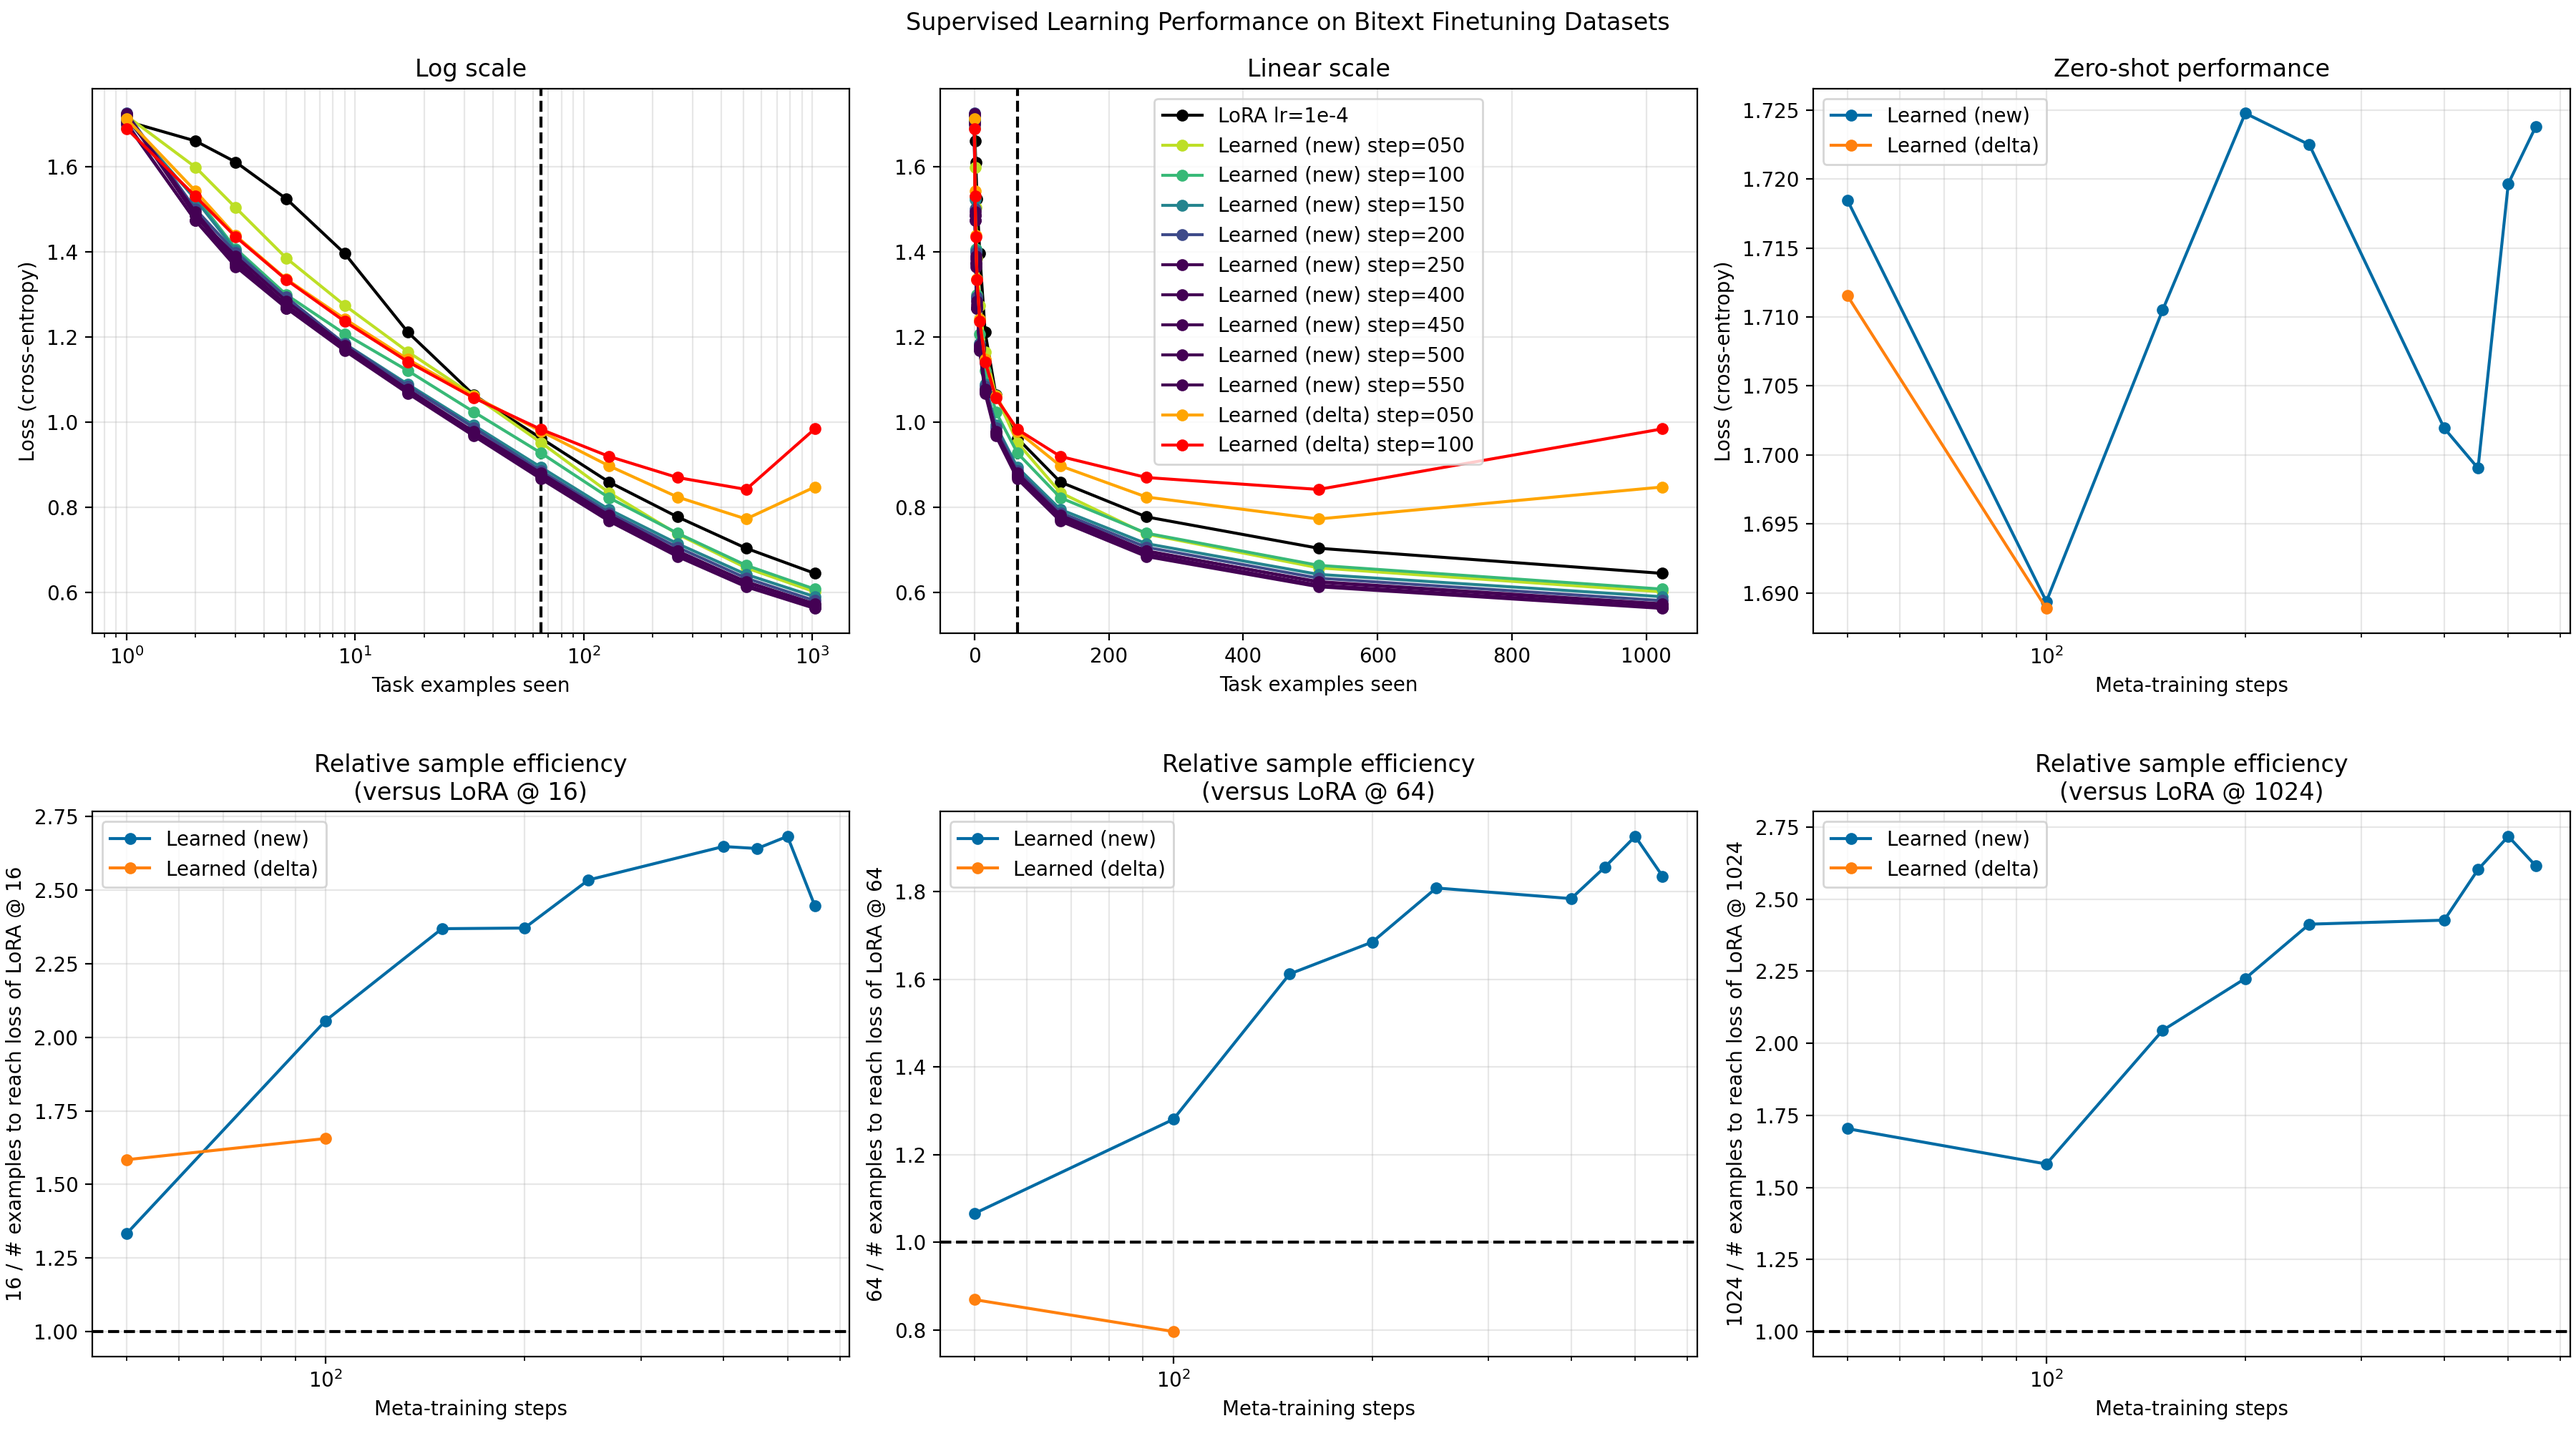
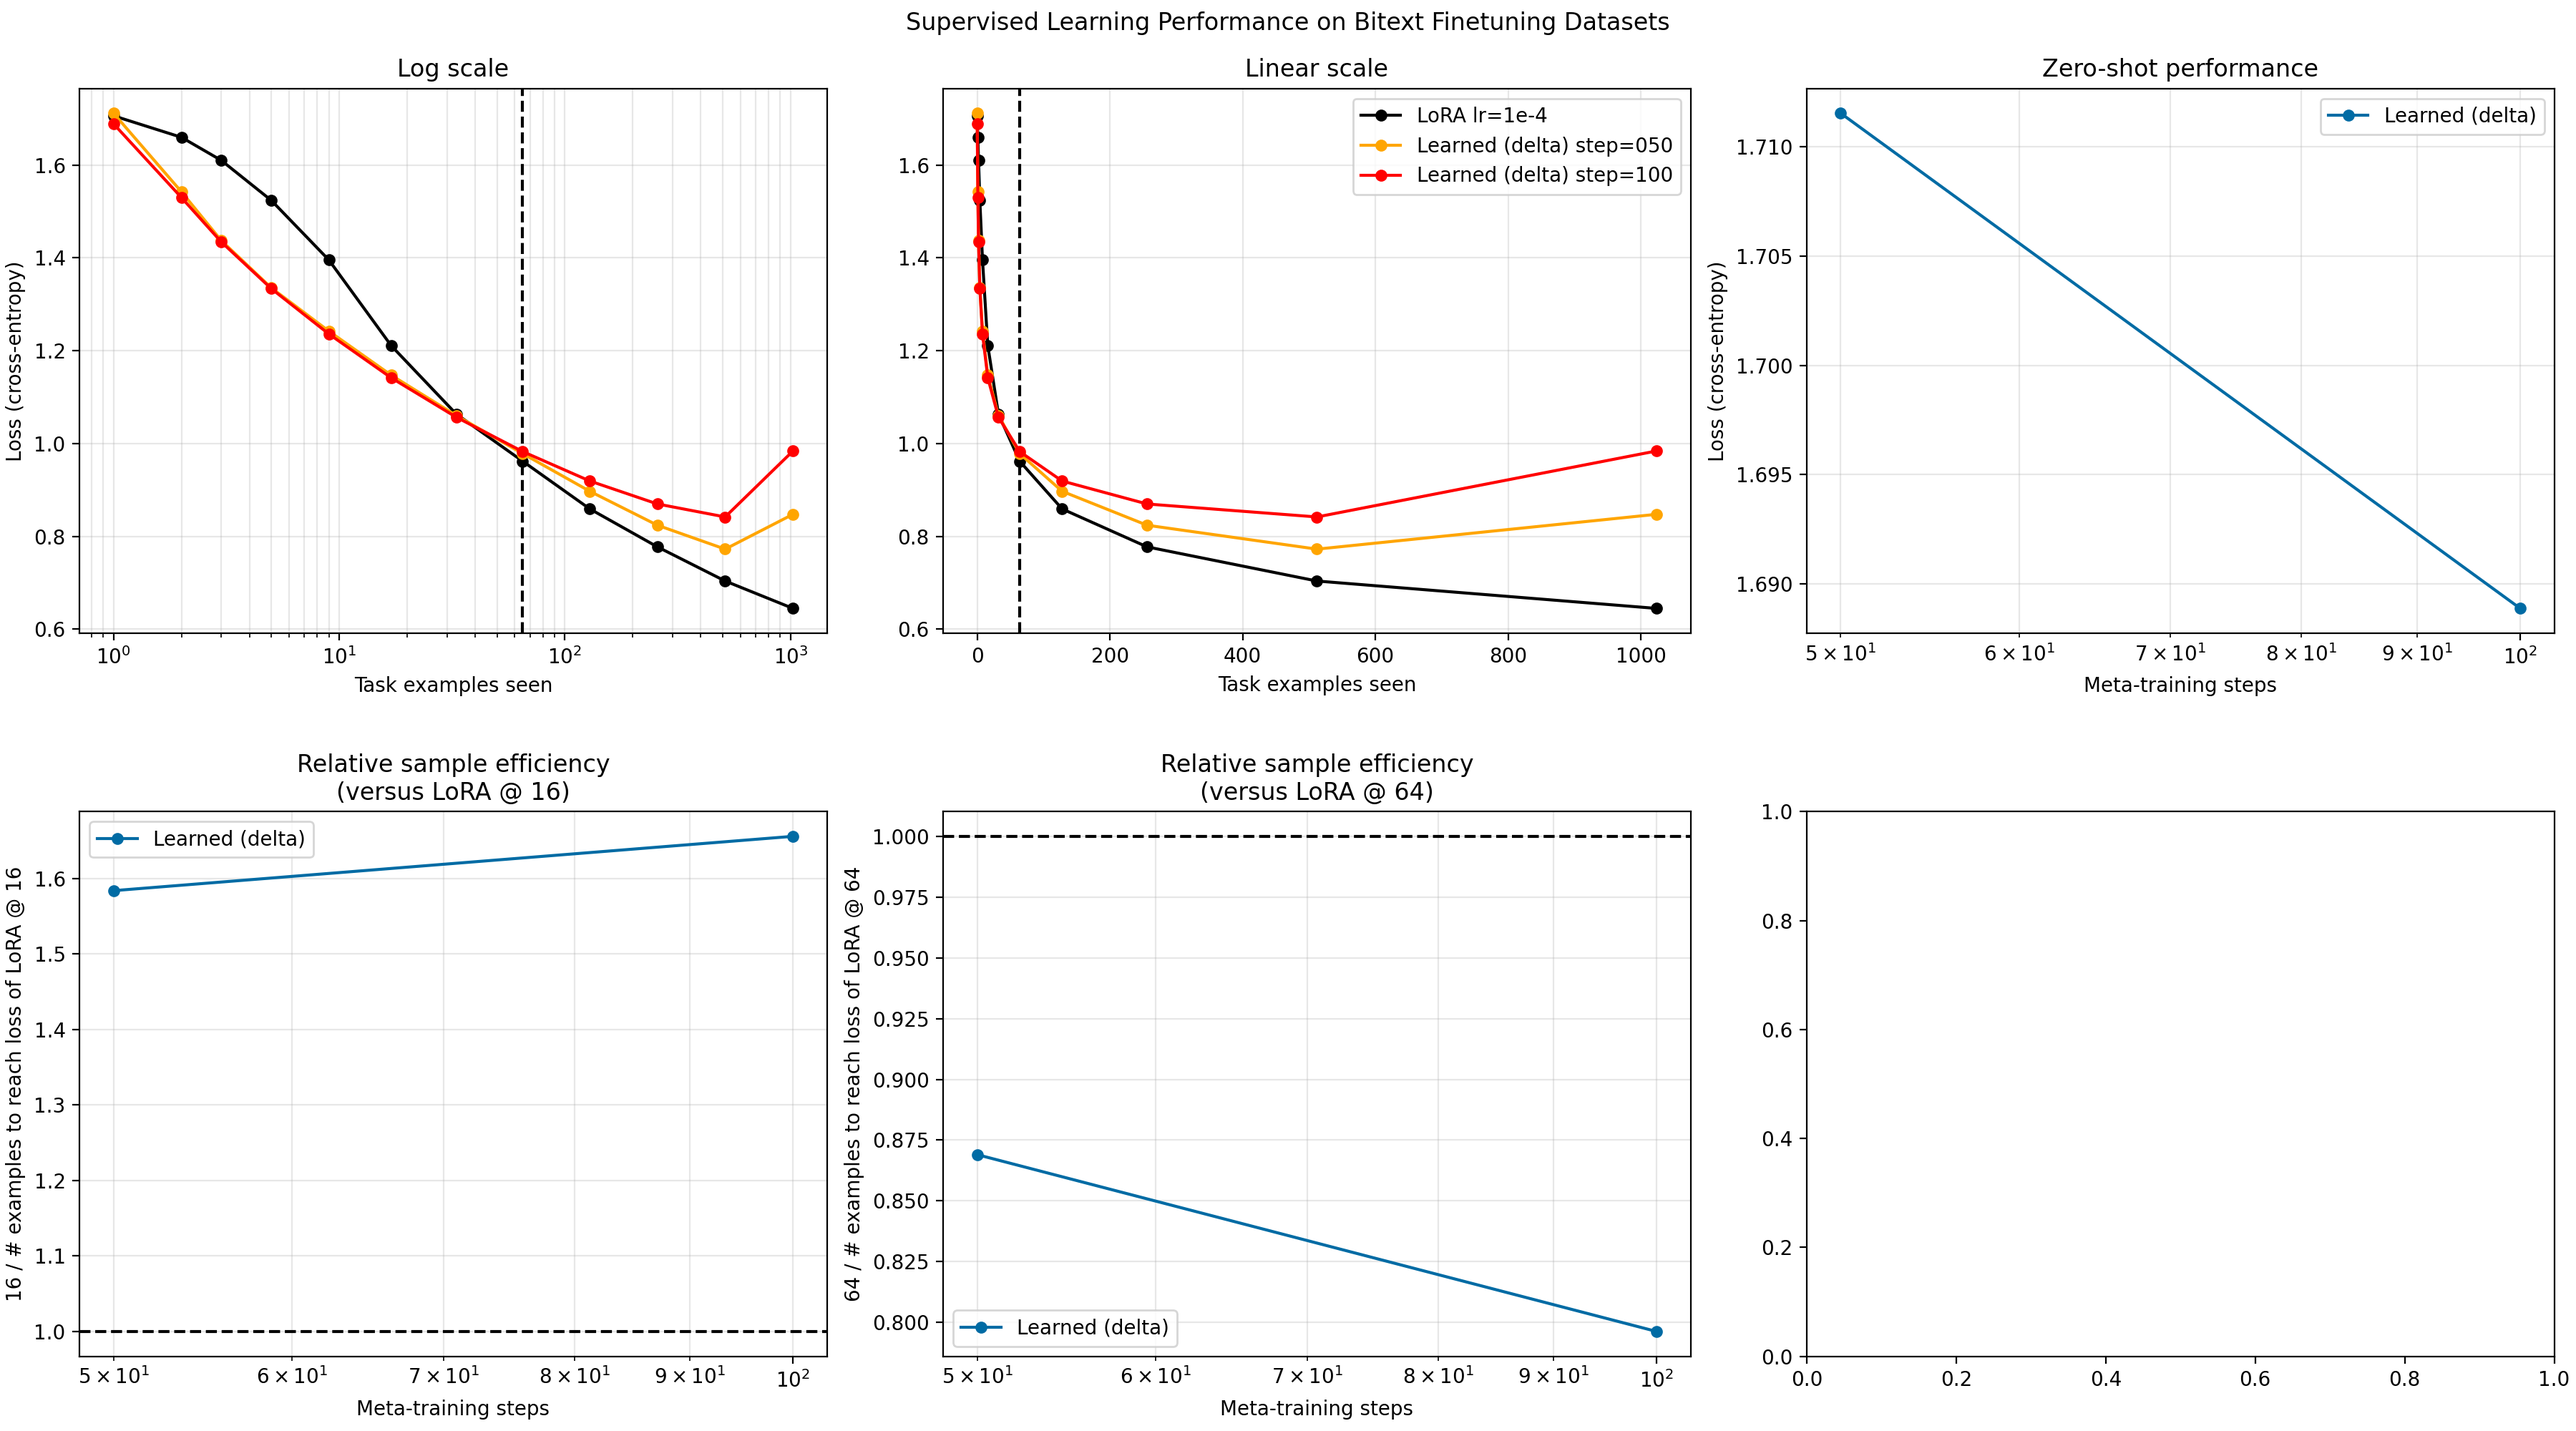
plot

diff --git a/src/plot_icl.py b/src/plot_icl.py
@@ -39,33 +39,33 @@ RUNS = {
         "label": "LoRA lr=1e-4", "color": "black"
     },
 
-    "aklein4--Horizon-TPU_forte-v2-1b/000000000050.json": {
-        "label": "Learned (new) step=050", "color": gradient()
-    },
-    "aklein4--Horizon-TPU_forte-v2-1b/000000000100.json": {
-        "label": "Learned (new) step=100", "color": gradient()
-    },
-    "aklein4--Horizon-TPU_forte-v2-1b/000000000150.json": {
-        "label": "Learned (new) step=150", "color": gradient()
-    },
-    "aklein4--Horizon-TPU_forte-v2-1b/000000000200.json": {
-        "label": "Learned (new) step=200", "color": gradient()
-    },
-    "aklein4--Horizon-TPU_forte-v2-1b/000000000250.json": {
-        "label": "Learned (new) step=250", "color": gradient()
-    },
-    "aklein4--Horizon-TPU_forte-v2-1b/000000000400.json": {
-        "label": "Learned (new) step=400", "color": gradient()
-    },
-    "aklein4--Horizon-TPU_forte-v2-1b/000000000450.json": {
-        "label": "Learned (new) step=450", "color": gradient()
-    },
-    "aklein4--Horizon-TPU_forte-v2-1b/000000000500.json": {
-        "label": "Learned (new) step=500", "color": gradient()
-    },
-    "aklein4--Horizon-TPU_forte-v2-1b/000000000550.json": {
-        "label": "Learned (new) step=550", "color": gradient()
-    },
+    # "aklein4--Horizon-TPU_forte-v2-1b/000000000050.json": {
+    #     "label": "Learned (new) step=050", "color": gradient()
+    # },
+    # "aklein4--Horizon-TPU_forte-v2-1b/000000000100.json": {
+    #     "label": "Learned (new) step=100", "color": gradient()
+    # },
+    # "aklein4--Horizon-TPU_forte-v2-1b/000000000150.json": {
+    #     "label": "Learned (new) step=150", "color": gradient()
+    # },
+    # "aklein4--Horizon-TPU_forte-v2-1b/000000000200.json": {
+    #     "label": "Learned (new) step=200", "color": gradient()
+    # },
+    # "aklein4--Horizon-TPU_forte-v2-1b/000000000250.json": {
+    #     "label": "Learned (new) step=250", "color": gradient()
+    # },
+    # "aklein4--Horizon-TPU_forte-v2-1b/000000000400.json": {
+    #     "label": "Learned (new) step=400", "color": gradient()
+    # },
+    # "aklein4--Horizon-TPU_forte-v2-1b/000000000450.json": {
+    #     "label": "Learned (new) step=450", "color": gradient()
+    # },
+    # "aklein4--Horizon-TPU_forte-v2-1b/000000000500.json": {
+    #     "label": "Learned (new) step=500", "color": gradient()
+    # },
+    # "aklein4--Horizon-TPU_forte-v2-1b/000000000550.json": {
+    #     "label": "Learned (new) step=550", "color": gradient()
+    # },
 
     "aklein4--Horizon-TPU_forte-delta-1b/000000000050.json": {
         "label": "Learned (delta) step=050", "color": "orange"
@@ -149,7 +149,7 @@ RUNS = {
 # }
 
 LORA_LABEL = "LoRA lr=1e-4"
-LORA_REFERENCE_EXAMPLES = (16, 64, 1024)
+LORA_REFERENCE_EXAMPLES = (16, 64, )
 CHECKPOINT_LABEL_RE = re.compile(r"^(?P<name>.+) step=(?P<step>\d+)$")
 
 
